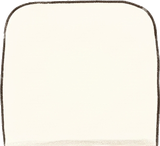
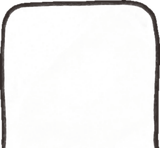
Note tabs redrawn with the page's pencil line (user pick A), the open tab the page's exact cream, its side lines ending at the page's edge

Changed region(s): [[0.0, 0.0, 1.0, 1.0]]

diff --git a/index.html b/index.html
@@ -237,7 +237,7 @@ button.chip:disabled{cursor:default;box-shadow:none}
    at the top, paper clip top right) is scaled to the panel width, so the padding and the header height
    are % of the width (padding % always refers to width): sheet top 7.9%, header strip 13.6%, sheet
    from 6.5% to 93.8%. */
-.dock{position:absolute;left:6px;right:6px;bottom:-4px;height:60%;z-index:11;display:flex;flex-direction:column;box-sizing:border-box;padding:7.9% 9% 0 9.5%;transform:translateY(calc(100% + 48px));transition:transform .55s cubic-bezier(.2,.9,.3,1.05),height .5s cubic-bezier(.3,.9,.3,1)}
+.dock{position:absolute;left:6px;right:6px;bottom:-4px;height:60%;z-index:11;container-type:inline-size;display:flex;flex-direction:column;box-sizing:border-box;padding:7.9% 9% 0 9.5%;transform:translateY(calc(100% + 48px));transition:transform .55s cubic-bezier(.2,.9,.3,1.05),height .5s cubic-bezier(.3,.9,.3,1)}
 /* the picture is a ::before layer so the index tabs (z-index -1) can sit behind it and peek over the folder */
 .dock::before{content:"";position:absolute;inset:0;z-index:0;background:url(assets/ui/casefile-panel.webp) top center/100% auto no-repeat;pointer-events:none}
 .dock-head,.dock-body{position:relative;z-index:1}
@@ -286,10 +286,11 @@ button.chip:disabled{cursor:default;box-shadow:none}
 .ncat .stamp{position:relative;display:grid;place-items:center;color:#7A5C47;opacity:.62;filter:url(#inky);mix-blend-mode:multiply;transition:opacity .2s,transform .25s cubic-bezier(.3,1.6,.5,1)}
 .ncat .stamp svg{display:block;width:24px;height:24px}
 .ncat[aria-pressed="true"]{z-index:1;height:52px;filter:none}
-.ncat[aria-pressed="true"] .face{padding-bottom:7px;background:#FDFAEE;
+.ncat[aria-pressed="true"] .face{padding-bottom:7px;background:#FCFAED;
   -webkit-mask:var(--tab) top/100% 112% no-repeat,linear-gradient(#000 calc(100% - 5px),transparent);-webkit-mask-composite:source-in;
   mask:var(--tab) top/100% 112% no-repeat,linear-gradient(#000 calc(100% - 5px),transparent);mask-composite:intersect}
-.ncat[aria-pressed="true"] .face::before{background-position:top;background-size:100% 112%}
+.ncat[aria-pressed="true"] .face::before{background-position:top;background-size:100% 112%;
+  -webkit-mask:linear-gradient(#000 calc(100% - 2.2cqw),transparent 0);mask:linear-gradient(#000 calc(100% - 2.2cqw),transparent 0)}
 .ncat[aria-pressed="true"] .stamp{color:#34506E;opacity:.92;transform:rotate(-6deg)}
 .note-edge{position:absolute;left:0;right:0;top:0;margin-top:5.4945%;aspect-ratio:728 / 44;background:url(assets/ui/casefile-paper-edge.png) 0 0/100% 100% no-repeat;
   filter:drop-shadow(0 -.5px .8px rgba(40,28,18,.22));pointer-events:none}

diff --git a/scripts/cut-note-tabs.py b/scripts/cut-note-tabs.py
@@ -1,0 +1,51 @@
+"""Cut the note's index tabs from a Higgsfield sheet (six tabs 3x2 on magenta, drawn with the notebook paper's grainy pencil
+line; the paper reference was cut from casefile-cutout-original.png). The grainy line lets the magenta through between
+its grains, so the tab's shape is the drawing with its gaps closed and filled, and the magenta inside it is painted with
+the line's brown. The line is thickened a little (it is drawn at 58px on screen, about as heavy as the page's edge) and
+redrawn as one ink on white, so the tab multiplied over a colour shows exactly that colour (the open tab = the page's
+cream); the bottom outline is cut off (the tab comes out from under the page), the width 160px.
+  python scripts/cut-note-tabs.py assets/ui/tabs-pencil-a-higgsfield-original.png assets/ui/tab   (user pick A)
+  -> <prefix>-1.png … -3.png (the top row); a third argument sets how much the line is thickened (default 5px)"""
+import sys
+from PIL import Image, ImageChops, ImageDraw, ImageFilter
+
+LINE = (52, 44, 42)   # the page's pencil line (casefile-panel.webp)
+
+src, prefix = sys.argv[1], sys.argv[2]
+grow = int(sys.argv[3]) if len(sys.argv) > 3 else 5
+sheet = Image.open(src).convert('RGB')
+W, H = sheet.size
+r_, g_, b_ = sheet.split()
+magenta = ImageChops.subtract(ImageChops.darker(r_, b_), g_)          # 255 on pure magenta, 0 on the drawing
+for n in range(3):
+    box = (n * W // 3, 0, (n + 1) * W // 3, H // 2)
+    cell, mg = sheet.crop(box), magenta.crop(box)
+    ink = mg.point(lambda v: 255 if v < 90 else 0)
+    shape = ink.filter(ImageFilter.MaxFilter(7)).filter(ImageFilter.MinFilter(7))
+    outside = shape.copy(); ImageDraw.floodfill(outside, (0, 0), 128)
+    shape = outside.point(lambda v: 0 if v == 128 else 255)          # holes filled
+    l, t, r, b = shape.getbbox()
+    cell, shape, ink = cell.crop((l, t, r, b)), shape.crop((l, t, r, b)), ink.crop((l, t, r, b))
+    w, h = cell.size
+    px, sp, ip = cell.load(), shape.load(), ink.load()
+    mid = [px[x, y] for x in range(w // 4, 3 * w // 4, 3) for y in range(h // 4, 3 * h // 4, 3)]
+    paper = [sorted(c[i] for c in mid)[len(mid) // 2] for i in range(3)]
+    dark = [p for p in (px[x, y] for x in range(w) for y in range(h) if ip[x, y]) if sum(p) < 300]
+    line = [sorted(c[i] for c in dark)[len(dark) // 2] for i in range(3)]
+    for y in range(h):
+        for x in range(w):
+            if sp[x, y] and not ip[x, y]: px[x, y] = tuple(line)       # magenta between the grains -> the line's brown
+    if grow: cell = cell.filter(ImageFilter.MinFilter(grow))           # the line a little heavier, inward
+    # the bottom outline: from the bottom up to the paper, the highest it reaches across the middle 80%
+    px = cell.load()
+    light = lambda x, y: sum(px[x, y]) > 600
+    cut = min(next(y for y in range(h - 1, 0, -1) if light(x, y)) for x in range(w // 10, w - w // 10))
+    cell = cell.point(lambda v: v).crop((0, 0, w, cut - 1)); shape = shape.crop((0, 0, w, cut - 1))
+    # one ink: how dark a pixel is (by its green, which the magenta does not touch) mixes white toward the page's line colour
+    g = cell.getchannel('G')
+    d = g.point(lambda v: max(0, min(255, round((paper[1] - v) * 255 / (paper[1] - 45)))))
+    cell = Image.merge('RGB', [d.point(lambda v, c=c: round(255 - v * (255 - c) / 255)) for c in LINE])
+    tab = cell.convert('RGBA'); tab.putalpha(shape.filter(ImageFilter.GaussianBlur(.7)))
+    tab = tab.convert('RGBa').resize((160, round(tab.height * 160 / w)), Image.LANCZOS).convert('RGBA')
+    tab.save(f'{prefix}-{n + 1}.png', optimize=True)
+    print(f'{prefix}-{n + 1}.png', tab.size, 'paper', paper, 'line', line)

diff --git a/HANDOFF.md b/HANDOFF.md
@@ -162,7 +162,7 @@ node server.js            # http://localhost:5173/
   - 하단 `Note` 버튼으로 직접 열면 화면 위(탭만 보이는 높이)까지 올라온다(`noteRaised`).
   - 노트 바깥(장면)을 누르거나 `Note` 버튼을 다시 누르면 닫힌다(`#noteScrim`). 노트 테두리·머리줄·본문의 빈 공간·탭 줄 여백·메모 장 여백도 짧게 탭하면 닫힌다(사용자 요청, `noteSpaceTargets`, `noteSpaceTap`). 글자·입력칸·사진·버튼 등 콘텐츠는 닫기 대상이 아니다. 같은 빈 요소에서 시작하고 끝난 주 포인터 탭만 허용하며 이동이 8px을 넘거나 취소되면 무시한다. 스크롤·단어 드래그·오른쪽 클릭은 닫기로 처리하지 않으며 단어 카드를 장면 쪽으로 끌어 놓아도 닫히지 않는다.
   - 받아쓰기 중 낮게 열린 노트는 장면 아래쪽만 어두워져 인물 얼굴이 보인다. `Note`로 직접 열거나 정답 확인 후 전체 높이로 올라온 노트(`.notes-open.note-full`)는 뒤의 장소 이름·현장·인물을 전체적으로 어둡고 흐리게 가린다(사용자 요청). `#noteScrim`에 갈색 68% 막과 7px `backdrop-filter`(WebKit 접두 포함)를 적용하며, 블러 미지원 브라우저에서도 어두운 막은 유지한다. 노트·노트 탭·하단 메뉴는 가림막 앞에서 선명하다. 닫으면 전체 가림도 해제된다.
-  - **위 탭은 `인물 · 증거 · 메모` 세 개로 고정**(사용자 결정: 인물마다 탭을 두면 인물이 늘 때 넘침, `NOTE_CATS`, `#noteCats`, `renderWho()`). 아이콘은 도장(사용자 결정: 손그림 아이콘은 아래 메뉴와 같은 그림체라 복잡해 보였다): 테두리 없는 한 가지 색 실루엣(겹친 말풍선·카메라·압정 — 메모는 📌로 붙인 것이 모이는 곳이고 수첩은 아래 `Note` 메뉴와 겹침)을 크라프트지에 찍은 듯 살짝 번진 잉크(`#inky` 필터, 곱하기). 닫힌 탭은 흐린 갈색, 연 탭은 메모 글씨와 같은 파란 잉크(`#34506E`)로 진하게, -6° 기울어짐. SVG는 `NOTE_CATS`에 들어 있다. 탭은 노트 종이 뒤에 끼운 칸막이 종이다(사용자 결정: 폴더의 파란 테두리 위에 붙인 견출지는 종이와 떨어져 보였다. 폴더 뒤로 넣으면 노트 뒷면에 붙은 것 같다는 이전 의견도 있음). 모든 탭이 종이의 위 테두리 밑에서 나온다: 닫힌 탭은 크라프트지(뒤로 갈수록 조금 진함), 그 발 위에 노트 그림에서 오려 낸 종이 테두리 조각(`ui/casefile-paper-edge.png`, `.note-edge`)을 다시 얹어 정말 종이 밑으로 들어가 보이고 테두리가 탭 위로 옅은 그림자를 드리운다. 조각의 연필선은 얇게 두 줄만 남겨 닫힌 탭이 종이에 바로 닿는다(사용자 요청: 탭 아래 여백 없게). 연 탭은 그 조각 위로 올라와 아래가 열린 손그림 탭(`tab-1…3.png`)으로 종이와 이어지고, 아래 5px이 종이 크림색으로 사라져 이음새가 없다. 겹침 순서: 노트 그림 < 닫힌 탭 < `.note-edge` < 연 탭 < 제목·본문. 탭 발은 독 너비의 9.5%(`margin-bottom:-9.5%`), 너비 58px, 닫힌 탭 44px·연 탭 52px, 탭 사이 좌우 여백 5px은 유지(사용자 결정). 버튼 안 `.face`가 마스크를, 버튼이 그림자를 맡는다.
+  - **위 탭은 `인물 · 증거 · 메모` 세 개로 고정**(사용자 결정: 인물마다 탭을 두면 인물이 늘 때 넘침, `NOTE_CATS`, `#noteCats`, `renderWho()`). 아이콘은 도장(사용자 결정: 손그림 아이콘은 아래 메뉴와 같은 그림체라 복잡해 보였다): 테두리 없는 한 가지 색 실루엣(겹친 말풍선·카메라·압정 — 메모는 📌로 붙인 것이 모이는 곳이고 수첩은 아래 `Note` 메뉴와 겹침)을 크라프트지에 찍은 듯 살짝 번진 잉크(`#inky` 필터, 곱하기). 닫힌 탭은 흐린 갈색, 연 탭은 메모 글씨와 같은 파란 잉크(`#34506E`)로 진하게, -6° 기울어짐. SVG는 `NOTE_CATS`에 들어 있다. 탭은 노트 종이 뒤에 끼운 칸막이 종이다(사용자 결정: 폴더의 파란 테두리 위에 붙인 견출지는 종이와 떨어져 보였다. 폴더 뒤로 넣으면 노트 뒷면에 붙은 것 같다는 이전 의견도 있음). 모든 탭이 종이의 위 테두리 밑에서 나온다: 닫힌 탭은 크라프트지(뒤로 갈수록 조금 진함), 그 발 위에 노트 그림에서 오려 낸 종이 테두리 조각(`ui/casefile-paper-edge.png`, `.note-edge`)을 다시 얹어 정말 종이 밑으로 들어가 보이고 테두리가 탭 위로 옅은 그림자를 드리운다. 조각의 연필선은 얇게 두 줄만 남겨 닫힌 탭이 종이에 바로 닿는다(사용자 요청: 탭 아래 여백 없게). 연 탭은 그 조각 위로 올라와 아래가 열린 손그림 탭(`tab-1…3.png`)으로 종이와 이어지고, 아래 5px이 종이 크림색으로 사라져 이음새가 없다. 탭 그림은 노트 종이 테두리와 같은 거친 연필선이고(사용자 선택 A) 안쪽이 흰색이라, 연 탭은 노트 종이와 정확히 같은 색(`#FCFAED`)이다. 연 탭의 양옆 선은 종이 테두리 선 높이에서 끊긴다(사용자 요청: 선이 종이 안으로 튀어나오지 않게, `.face::before`를 아래 `2.2cqw`만큼 가림, `.dock`이 `container-type:inline-size`). 겹침 순서: 노트 그림 < 닫힌 탭 < `.note-edge` < 연 탭 < 제목·본문. 탭 발은 독 너비의 9.5%(`margin-bottom:-9.5%`), 너비 58px, 닫힌 탭 44px·연 탭 52px, 탭 사이 좌우 여백 5px은 유지(사용자 결정). 버튼 안 `.face`가 마스크를, 버튼이 그림자를 맡는다.
   - `S.view`가 인물 id면 인물 장, `'evidence'`면 증거, `'memo'`면 메모다. 인물 탭은 마지막으로 본 인물 장(`notePerson`)을 연다.
   - **인물 장**: 머리줄에 얼굴 + `<이름>의 진술`(동료는 `사건 브리핑`, `#personTitle`). 그 아래 **얼굴 줄**(사용자 선택, `.nfaces`): 말을 건 인물 모두의 얼굴, 모서리에 진행(바르게 기록한 질문 수/전체, 다 하면 ✓), 보고 있는 인물은 꿀색 종이, 많으면 옆으로 민다. 받아 적는 중·채점 결과·`계속` 화면에서는 얼굴 줄을 숨긴다(`noteMode()`가 있을 때). 받아 적는 중에는 머리줄에 `다시 듣기`·`천천히`가 오고 제목은 숨긴다.
   - **📌 붙이기**: 바르게 기록한 질문의 `Q.` 줄 오른쪽, 증거 카드 모서리, 증거 상세의 `해석` 옆 📌(`pinBtn()`, `togglePin()`)를 누르면 메모에 쪽지로 붙고 메모 탭에 새로 붙인 수가 뜬다(`memoNew`, 메모를 열면 사라짐). 다시 누르거나 메모의 ×로 뗀다. 압정 버튼(`#pinIcon`, 단순한 선 아이콘, 둥근 머리 + 짧은 바늘 — 사용자 선택, 시안 시안 A-1): 꺼짐 = 크림 동그라미 안 회색 선 압정이 비스듬히 누움, 켜짐 = 꿀색 동그라미 위 똑바로 선 압정·분홍 머리·반짝임. 켜고 끌 때는 색이 0.2초 동안 바뀌며 압정이 서거나 눕고, 누르는 동안 살짝 작아지는 것뿐이다(사용자 요청: 단순하게. 예전 톡 꽂히는 움직임은 지도 핀과 애니메이션 이름 `pin-pop`이 겹쳐 압정이 모서리에서 날아오는 오류가 있어 뺐다). 색은 `--pin-head`·`--pin-shine` 변수로 `<use>` 안까지 전한다.
@@ -448,7 +448,7 @@ node server.js            # http://localhost:5173/
 | 플레이어 탐정 | `characters/detective-higgsfield.png`(기본), `characters/detective-thinking·point·lens·wave.png`(포즈, 각 약 610×700), `places/detective-office-wide.jpg`, `ui/detective-id-card.png`, `ui/icons-v2/detective.png` | Claude 제작. 주황 다람쥐 탐정(체크무늬 모자·트렌치코트·돋보기, 627×700), 참나무 사무소(가로 1843×1376, 세로 원본 768×1376은 보관만), 빈 신분증(1143×747), 얼굴 아이콘(신분증 사진 칸). 3.1.1절 |
 | 노트 배경 | `ui/casefile-panel.webp` | 남색 서류철 + 크림색 서류, 위 머리 띠. 클립은 지움(사용자 요청: 오른쪽 위 UI를 가림) |
 | 메뉴 아이콘 | `ui/nav/*.png` (160×160) | 홈 메뉴 `home-house`·`case-magnifier`·`study-book`·`my-hat`, 사건 안 `map`·`note`. 시트 두 장(`nav-icons-higgsfield-original.png`, `nav-icons-2-higgsfield-original.png`)을 `scripts/cut-nav-icons.py`로 자름(고르지 않은 칸은 버림) |
-| 노트 탭 | `ui/tab-1.png` … `tab-3.png`, `ui/casefile-paper-edge.png` | 아래가 열린 손그림 탭. CSS 마스크 + 곱하기로 색(연 탭 종이 크림, 닫힌 탭 크라프트지)을 입힌다. 종이 테두리 조각은 닫힌 탭의 발 위에 얹는다. |
+| 노트 탭 | `ui/tab-1.png` … `tab-3.png`, `ui/casefile-paper-edge.png` | 아래가 열린 손그림 탭(노트 종이와 같은 연필선, 안쪽 흰색). CSS 마스크 + 곱하기로 색(연 탭 종이색 `#FCFAED`, 닫힌 탭 크라프트지)을 입힌다. 종이 테두리 조각은 닫힌 탭의 발 위에 얹는다. |
 | 손그림 아이콘 | `ui/icons-v2/*.png` (160×160) | Higgsfield 한 장(돋보기·카메라·도토리·여섯 인물 얼굴). 증거 탭 카메라, 힌트 도토리, 작은 얼굴(`miniSVG()` → `FACE_ICONS`: 노트 얼굴 줄·제목·메모 쪽지·지도 핀·지목·복습·단어장). `detective.png`는 신분증 사진·추리 칠판 말풍선 |
 | 심문 게이지 | `ui/magnifier-paper.png`, `ui/buttons/cream-flat.png`, `ui/buttons/honey-flat.png` | 돋보기는 내장 이미지 생성. 크림/갈색 종이 외곽과 꿀색 채움은 기존 버튼 질감 재사용 |
 | 말풍선 | `ui/speech-paper-frame.png`, `ui/speech-paper-tail-pencil.png` | 기본 이미지 생성 도구로 제작. 종이 본문은 종이 외곽으로 잘라(1508×908) 9조각(위·아래 150, 좌우 190 = 모서리 전체)으로 확장해 어떤 크기에서도 모서리가 일그러지지 않는다(`ui/README.md`). 꼬리는 별도 고정 크기로 배치. 엔딩의 주장·반박·자백·마무리에 사용 |

diff --git a/assets/ui/README.md b/assets/ui/README.md
@@ -55,7 +55,7 @@ Warm dark brown outer band, golden ochre inner band, both strong opaque textured
   - 2026-10-23 클립 지움(사용자 요청: 노트 오른쪽 위 UI를 가림): 클립 자리(x 570–640, y 0–135)를 같은 줄의 75px 왼쪽(파란 테두리·종이)으로 덮고 가장자리를 3px 흐리게 섞었다(Pillow).
   - 남색은 나무 바닥·타일·풀밭 같은 따뜻한 배경과 대비되도록 고른 색이다.
   - CSS는 그림 폭 기준 %로 맞춘다: 서류 윗변 7.9%, 머리 띠 높이 13.6%, 서류 폭 6.5%–93.8%. 클립(약 81–86%)을 피해 탭은 오른쪽 22%까지만 놓는다.
-- `tab-1.png` … `tab-3.png` (160×146): 인덱스 탭. 흰 종이 탭 6개를 한 장(`tabs-higgsfield-original.png`)에 그려 크레딧을 아끼고(쓰는 세 개만 남김), 칸별로 잘라 아래 외곽선을 지우고 바깥을 투명하게 만들었다.
+- `tab-1.png` … `tab-3.png` (160×148): 인덱스 탭(2026-10-27 교체, 사용자 선택 A). Higgsfield Nano Banana 2.1(1K, thinking high), 노트 종이 윗부분(`casefile-cutout-original.png`의 왼쪽 위를 마젠타 위에 놓은 것)을 참조로 그 거친 연필선과 같은 선으로 탭 6개를 마젠타 위에 한 장 그렸다(job `13d92d57-fc24-4a03-addf-5d9011ae4521`, 원본 `tabs-pencil-a-higgsfield-original.png`, 같은 프롬프트 두 장 중 하나 → 약 3크레딧). `scripts/cut-note-tabs.py`로 윗줄 세 개를 잘랐다: 연필 알갱이 사이로 비친 마젠타는 모양을 메워 선 색으로 칠하고, 선을 조금 굵히고(화면 58px에서 종이 테두리와 비슷한 굵기), 진하기(초록 채널)만 남겨 흰 바탕 위 한 가지 잉크(`#342C2A`, 종이 테두리 색)로 다시 칠하고, 아래 외곽선을 잘라 냈다. 안쪽이 흰색이라 곱하기로 입힌 색이 그대로 보인다.
 - `casefile-paper-edge.png` (728×44): 노트 탭(칸막이 종이)용 종이 위 테두리 조각. `casefile-panel.webp`의 y 40–84에서 열마다 종이와 그 바로 위 연필선 2줄만 남기고(그 위·종이 밖은 투명) 잘라 냈다(PIL, 크레딧 없음). 그림의 연필선은 5–7줄로 두꺼워서(폴더에 대고 그은 선) 그대로 얹으면 닫힌 탭 밑에 짙은 띠가 보였다(사용자: 아래 여백 없게). 게임에서 닫힌 탭의 발 위에 같은 크기로 겹쳐 얹는다(독 너비의 5.49%부터).
   - 탭은 서류철 그림(`.dock::before`) 뒤(`z-index:-1`)에 놓여 윗변 너머로 머리만 나온다. 아래 14px은 서류철에 가려지고, 선택된 탭은 더 높이 나온다.
   - 탭 버튼은 이 PNG로 마스크하고 `--tab-bg` 색 위에 곱하기로 겹쳐 색을 입힌다. 선택된 탭은 꿀색(`--honey`)이며 조금 더 높다. 순서대로 1–3번 모양을 돌려 쓴다.
